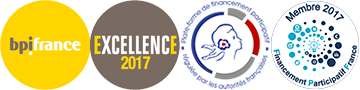
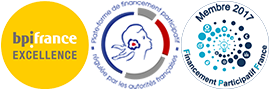
TMA-1570 - Update BPI France Image

diff --git a/app/Resources/assets/sass/site/components/site/_footer.scss b/app/Resources/assets/sass/site/components/site/_footer.scss
@@ -107,7 +107,7 @@ footer > .disclaimer {
         width: 60px;
         height: 60px;
         background-image: url('../images/awards/partners.png');
-        background-size: 240px auto;
+        background-size: 180px auto;
         background-repeat: no-repeat;
       }
       &:nth-child(2) {
@@ -120,11 +120,6 @@ footer > .disclaimer {
           background-position: -120px 0;
         }
       }
-      &:nth-child(4) {
-        a {
-          background-position: -180px 0;
-        }
-      }
     }
     @include devices('lg') {
       > li {
@@ -135,7 +130,7 @@ footer > .disclaimer {
         a {
           width: 90px;
           height: 90px;
-          background-size: 360px auto;
+          background-size: 270px auto;
         }
         &:nth-child(2) {
           a {
@@ -145,11 +140,6 @@ footer > .disclaimer {
         &:nth-child(3) {
           a {
             background-position: -180px 0;
-          }
-        }
-        &:nth-child(4) {
-          a {
-            background-position: -270px 0;
           }
         }
       }
